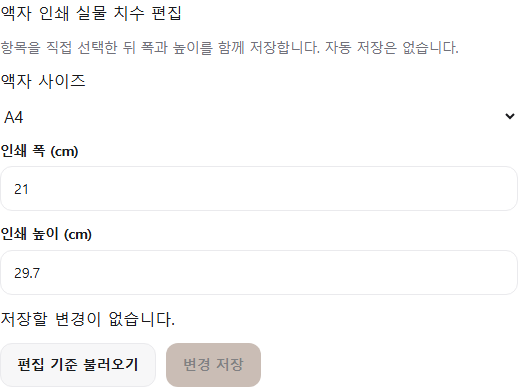
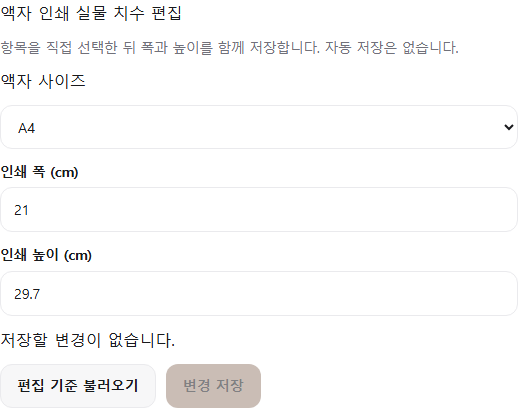
spec 086: give the C5 size picker a real form surface
Closes spec 084 F-5. The `액자 사이즈` select was the one control in the operator
print-size editor still rendering as a 23px unstyled native widget, directly
above two 44px TextFields it was supposed to belong with.

It stays a native <select>. A keyboard, a screen reader and a mobile OS picker
already understand this control, and replacing it with a custom listbox would
trade a styling gap for a behaviour one. `appearance` is deliberately not reset
either: the disclosure arrow is the only thing that tells a sighted operator the
control opens a list, so removing it would point the same confusion the other
way.

Only the surface changes, in a component-only stylesheet the component imports
itself. The rules mirror `@denn/ui`'s `.denn-field__input` rather than
re-inventing it - 44px min-height, full width, one `--line` border, `--radius`,
`--surface`, `--ink`, `font: inherit` - with the same 3px `--accent-ink`
focus-visible ring the neighbouring input uses and the `not-allowed` plus 0.55
opacity that the disabled Button and Chip already use. The selector never widens
past the component class, so the Space V2 issue panel keeps the rules spec 083
gave it, and no global `select` rule exists.

Nothing about the meaning moves: label/id, data-testid, option values, order and
copy, the legacy read-only option, the empty initial value with no first-item
auto selection, and C5's load/save/CAS contract are untouched.
[…]

diff --git a/tests/e2e/admin-write-editor.spec.ts b/tests/e2e/admin-write-editor.spec.ts
@@ -1,4 +1,5 @@
-import { expect, test, type Page } from "@playwright/test";
+import AxeBuilder from "@axe-core/playwright";
+import { type ConsoleMessage, expect, test, type Page } from "@playwright/test";
 import { ADMIN_PORT } from "../../playwright.config";
 
 const FIXTURE_URL = `http://localhost:${ADMIN_PORT}/e2e-admin-write-fixture.html`;
@@ -113,5 +114,171 @@ for (const scenario of [
     await page.getByRole("button", { name: "초안 폐기하고 다시 불러오기" }).click();
     await expect(page.getByTestId("fixture-status")).toHaveText("ready-clean");
     await expect(page.getByTestId("fixture-revision")).toHaveText("3");
+  });
+}
+
+// --- spec 086: the size picker's accessibility surface --------------------------
+//
+// Closes spec 084 F-5, measured on this same component: the `액자 사이즈` select was a 23px
+// unstyled native widget (518x23 desktop, 316x23 mobile) sitting directly above two 44px
+// `TextField`s. What is asserted here is the RENDERED control - height, containment, focus ring
+// and disabled cue in computed style - because a class name in the markup proves none of it.
+
+const SELECT_CLASS = "denn-frame-print-size-editor__select";
+
+const SURFACE_VIEWPORTS = [
+  { name: "390x844", width: 390, height: 844 },
+  { name: "1280x800", width: 1280, height: 800 },
+] as const;
+
+/** Everything the pixel contract needs, read from the live computed style in one round trip. */
+async function selectSurface(page: Page): Promise<{
+  readonly minHeight: string;
+  readonly borderStyle: string;
+  readonly borderWidth: string;
+  readonly borderRadius: string;
+  readonly backgroundColor: string;
+  readonly boxSizing: string;
+  readonly cursor: string;
+  readonly opacity: string;
+  readonly transitionDuration: string;
+  readonly transform: string;
+}> {
+  return page.getByTestId("frame-print-size-id").evaluate((node) => {
+    const style = window.getComputedStyle(node);
+    return {
+      minHeight: style.minHeight,
+      borderStyle: style.borderTopStyle,
+      borderWidth: style.borderTopWidth,
+      borderRadius: style.borderTopLeftRadius,
+      backgroundColor: style.backgroundColor,
+      boxSizing: style.boxSizing,
+      cursor: style.cursor,
+      opacity: style.opacity,
+      transitionDuration: style.transitionDuration,
+      transform: style.transform,
+    };
+  });
+}
+
+for (const viewport of SURFACE_VIEWPORTS) {
+  test(`spec 086 size picker surface @ ${viewport.name}: 44px, contained, focusable, styled in both states`, async ({
+    page,
+  }) => {
+    const noise: string[] = [];
+    page.on("console", (message: ConsoleMessage) => {
+      if (message.type() === "error" || message.type() === "warning") noise.push(message.text());
+    });
+    page.on("pageerror", (error) => noise.push(String(error)));
+
+    await page.setViewportSize({ width: viewport.width, height: viewport.height });
+    const external = await openFixture(page);
+    const select = page.getByTestId("frame-print-size-id");
+
+    // 4a. disabled (before an explicit load) is styled, and says so without relying on colour
+    await expect(select).toBeDisabled();
+    const disabled = await selectSurface(page);
+    expect(disabled.minHeight, "disabled min-height").toBe("44px");
+    expect(disabled.borderStyle).toBe("solid");
+    expect(disabled.borderWidth).toBe("1px");
+    expect(disabled.cursor, "disabled cursor").toBe("not-allowed");
+    expect(Number.parseFloat(disabled.opacity), "disabled is dimmed").toBeLessThan(1);
+    const disabledBox = await select.boundingBox();
+    expect(disabledBox?.height ?? 0, "disabled height").toBeGreaterThanOrEqual(44);
+
+    await loadBaseline(page);
+    await expect(select).toBeEnabled();
+
+    // 1. the pointer target, in the rendered box rather than in the stylesheet
+    const enabled = await selectSurface(page);
+    expect(enabled.minHeight, "enabled min-height").toBe("44px");
+    expect(enabled.boxSizing).toBe("border-box");
+    expect(enabled.borderStyle).toBe("solid");
+    expect(enabled.borderRadius, "shares the TextField radius").not.toBe("0px");
+    expect(enabled.backgroundColor, "has a painted surface").not.toBe("rgba(0, 0, 0, 0)");
+    expect(Number.parseFloat(enabled.opacity), "enabled is not dimmed").toBe(1);
+    // nothing was added that moves: this is a static surface
+    expect(enabled.transitionDuration).toBe("0s");
+    expect(enabled.transform === "none" || enabled.transform === "").toBe(true);
+
+    const box = await select.boundingBox();
+    expect(box, "the select has a box").not.toBeNull();
+    expect(box?.height ?? 0, "44px pointer target").toBeGreaterThanOrEqual(44);
+
+    // 2. it stays inside the editor, and the page never scrolls sideways
+    const editor = await page.getByTestId("frame-print-size-editor").boundingBox();
+    expect(editor, "the editor has a box").not.toBeNull();
+    if (box !== null && editor !== null) {
+      expect(box.x, "left edge inside the editor").toBeGreaterThanOrEqual(editor.x - 1);
+      expect(box.x + box.width, "right edge inside the editor").toBeLessThanOrEqual(
+        editor.x + editor.width + 1,
+      );
+    }
+    const overflow = await page.evaluate(
+      () => document.documentElement.scrollWidth - document.documentElement.clientWidth,
+    );
+    expect(overflow, "document horizontal overflow").toBeLessThanOrEqual(0);
+
+    // 3. Tab reaches it and the ring is really painted (`:focus-visible`, not a class name)
+    await page.evaluate(() => {
+      document.body.setAttribute("tabindex", "-1");
+      document.body.focus();
+      document.body.removeAttribute("tabindex");
+    });
+    let reached = false;
+    for (let step = 0; step < 25 && !reached; step++) {
+      await page.keyboard.press("Tab");
+      reached = await page.evaluate(
+        (testid) => document.activeElement?.getAttribute("data-testid") === testid,
+        "frame-print-size-id",
+      );
+    }
+    expect(reached, "Tab reaches the size picker").toBe(true);
+    const ring = await select.evaluate((node) => {
+      const style = window.getComputedStyle(node);
+      return {
+        width: Number.parseFloat(style.outlineWidth),
+        style: style.outlineStyle,
+        offset: style.outlineOffset,
+      };
+    });
+    expect(ring.style, "focus outline style").not.toBe("none");
+    expect(ring.width, "focus outline width").toBeGreaterThanOrEqual(3);
+    expect(ring.offset).toBe("2px");
+
+    // 5/6. the meaning the styling was not allowed to touch
+    await expect(select).toHaveValue(""); // still no first-item auto selection
+    await expect(select.locator('option[value="legacy"]')).toBeDisabled();
+    await select.selectOption("a4");
+    await expect(page.getByTestId("frame-print-size-width")).toHaveValue("21");
+    await expect(page.getByTestId("frame-print-size-height")).toHaveValue("29.7");
+    await select.selectOption("blank");
+    await expect(page.getByTestId("frame-print-size-width")).toHaveValue("");
+    await expect(page.getByTestId("frame-print-size-height")).toHaveValue("");
+    await expect(page.getByTestId("fixture-save-calls")).toHaveText("0");
+
+    // the class lives on the select and on nothing else on the page
+    const carriers = await page.evaluate(
+      (className) => document.querySelectorAll(`.${className}`).length,
+      SELECT_CLASS,
+    );
+    expect(carriers, "one styled control only").toBe(1);
+
+    // 7. accessibility, quiet console, nothing left the machine.
+    //
+    // Scoped to the product component. The page around it is harness chrome — the diagnostics
+    // section this fixture prints (`fixture-status`, `fixture-expected-base`) puts muted text
+    // straight on the page background and fails colour contrast at 4.39:1. That is a property of
+    // the fixture, not of the editor, and spec 084 §3 established that reporting fixture controls
+    // as product findings is the exact confusion to avoid; its own audit hides the same section
+    // before it runs axe. The assertion itself is not loosened: the editor must have zero.
+    const axe = await new AxeBuilder({ page })
+      .include('[data-testid="frame-print-size-editor"]')
+      .analyze();
+    expect(axe.violations.filter((v) => v.impact === "serious" || v.impact === "critical")).toEqual(
+      [],
+    );
+    expect(noise).toEqual([]);
+    expect(external).toEqual([]);
   });
 }

diff --git a/apps/admin/src/admin-write/frame-print-size-editor.css b/apps/admin/src/admin-write/frame-print-size-editor.css
@@ -1,0 +1,50 @@
+/*
+ * Spec 086 — the C5 size picker's visual and accessibility surface (spec 084 F-5).
+ *
+ * The control stays a native <select>: it is what a keyboard, a screen reader and a mobile
+ * OS picker already understand, and replacing it with a custom listbox would trade a styling
+ * gap for a behaviour one. Only its presentation is brought in line with the `TextField`
+ * directly beneath it, whose rules this file mirrors (`@denn/ui/theme.css` `.denn-field__input`)
+ * rather than re-inventing.
+ *
+ * Scoped to one component class on purpose. A bare `select` selector here would restyle every
+ * other native select in the admin app — including the Space V2 issue panel, which spec 083
+ * already styles with its own rules — so the selector never widens beyond this editor.
+ *
+ * No new colour literal, no new token, no `@denn/ui` change, no transition/animation/transform
+ * and no `!important`: nothing here moves, and nothing needs to win a specificity fight.
+ *
+ * `appearance` is deliberately NOT reset. The disclosure arrow is the only thing that tells a
+ * sighted operator this control opens a list, and a flat box with no arrow would read as a text
+ * input — the same confusion this unit exists to remove, pointing the other way.
+ */
+
+.denn-frame-print-size-editor__select {
+  box-sizing: border-box;
+  /* 44px is the pointer-target contract; the audit measured this control at 23px. */
+  min-height: 44px;
+  /* a select is otherwise as wide as its longest option, which is what pushed it out of the card */
+  width: 100%;
+  min-width: 0;
+  max-width: 100%;
+  padding: 11px 13px;
+  border: 1px solid var(--line);
+  border-radius: var(--radius);
+  background: var(--surface);
+  color: var(--ink);
+  font: inherit;
+  font-size: 14px;
+}
+
+/* Same ring as the neighbouring input, so tabbing through the form never changes its language. */
+.denn-frame-print-size-editor__select:focus-visible {
+  outline: 3px solid var(--accent-ink);
+  outline-offset: 2px;
+}
+
+/* The same non-colour cue the disabled Button and Chip use: dimmed AND not-allowed, so the state
+   is legible without relying on colour alone. */
+.denn-frame-print-size-editor__select:disabled {
+  cursor: not-allowed;
+  opacity: 0.55;
+}

diff --git a/apps/admin/src/admin-write/FramePrintSizeEditor.test.tsx b/apps/admin/src/admin-write/FramePrintSizeEditor.test.tsx
@@ -64,6 +64,24 @@ describe("FramePrintSizeEditor isolated markup", () => {
     expect(html).toMatch(/<button[^>]*disabled=""[^>]*>변경 저장<\/button>/);
   });
 
+  // spec 086 (spec 084 F-5): the size picker carries the component's own class so its 44px
+  // surface can exist without a global `select` rule. These assert the WIRING only — a computed
+  // height cannot be read out of an SSR string, so the pixel contract is asserted in Chromium.
+  it("labels the size picker and carries the component select class on it", () => {
+    const html = renderToStaticMarkup(<FramePrintSizeEditor controller={controller()} />);
+    expect(html).toContain('<label for="frame-print-size-id">액자 사이즈</label>');
+    expect(html).toMatch(
+      /<select class="denn-frame-print-size-editor__select" id="frame-print-size-id"/,
+    );
+  });
+
+  it("puts that class on the select and on nothing else", () => {
+    const html = renderToStaticMarkup(<FramePrintSizeEditor controller={controller()} />);
+    expect(html.split("denn-frame-print-size-editor__select").length - 1).toBe(1);
+    // the neighbouring inputs keep the shared @denn/ui class; the editor does not restyle them
+    expect(html).toContain("denn-field__input");
+  });
+
   it("keeps controls locked when auth is blocked", () => {
     const html = renderToStaticMarkup(
       <FramePrintSizeEditor
@@ -78,6 +96,8 @@ describe("FramePrintSizeEditor isolated markup", () => {
     );
     expect(html).toContain("운영자 로그인이 필요합니다.");
     expect(html).toMatch(/<select[^>]*disabled=""/);
+    // spec 086: the disabled picker keeps its class, so the disabled cue is styled rather than lost
+    expect(html).toMatch(/<select class="denn-frame-print-size-editor__select"[^>]*disabled=""/);
     expect(html).not.toContain("abcdef");
   });
 

diff --git a/apps/admin/src/admin-write/FramePrintSizeEditor.tsx b/apps/admin/src/admin-write/FramePrintSizeEditor.tsx
@@ -2,6 +2,7 @@ import { useSyncExternalStore, useState } from "react";
 import { applyFramePrintSizeEdit, type CatalogDocumentV1, type CatalogItemV1 } from "@denn/shared";
 import { Button, Card, TextField } from "@denn/ui";
 import type { AdminWriteSessionController } from "./session-controller";
+import "./frame-print-size-editor.css";
 
 export interface FramePrintSizeEditorProps {
   readonly controller: AdminWriteSessionController;
@@ -108,7 +109,11 @@ export function FramePrintSizeEditor({ controller }: FramePrintSizeEditorProps):
         <p>항목을 직접 선택한 뒤 폭과 높이를 함께 저장합니다. 자동 저장은 없습니다.</p>
 
         <label htmlFor="frame-print-size-id">액자 사이즈</label>
+        {/* spec 086: still the native select — only its surface is styled, in a component-only
+            stylesheet, so the option order, the empty initial value and the legacy read-only
+            option keep the exact meaning spec 041 gave them. */}
         <select
+          className="denn-frame-print-size-editor__select"
           id="frame-print-size-id"
           data-testid="frame-print-size-id"
           value={selectedId}
